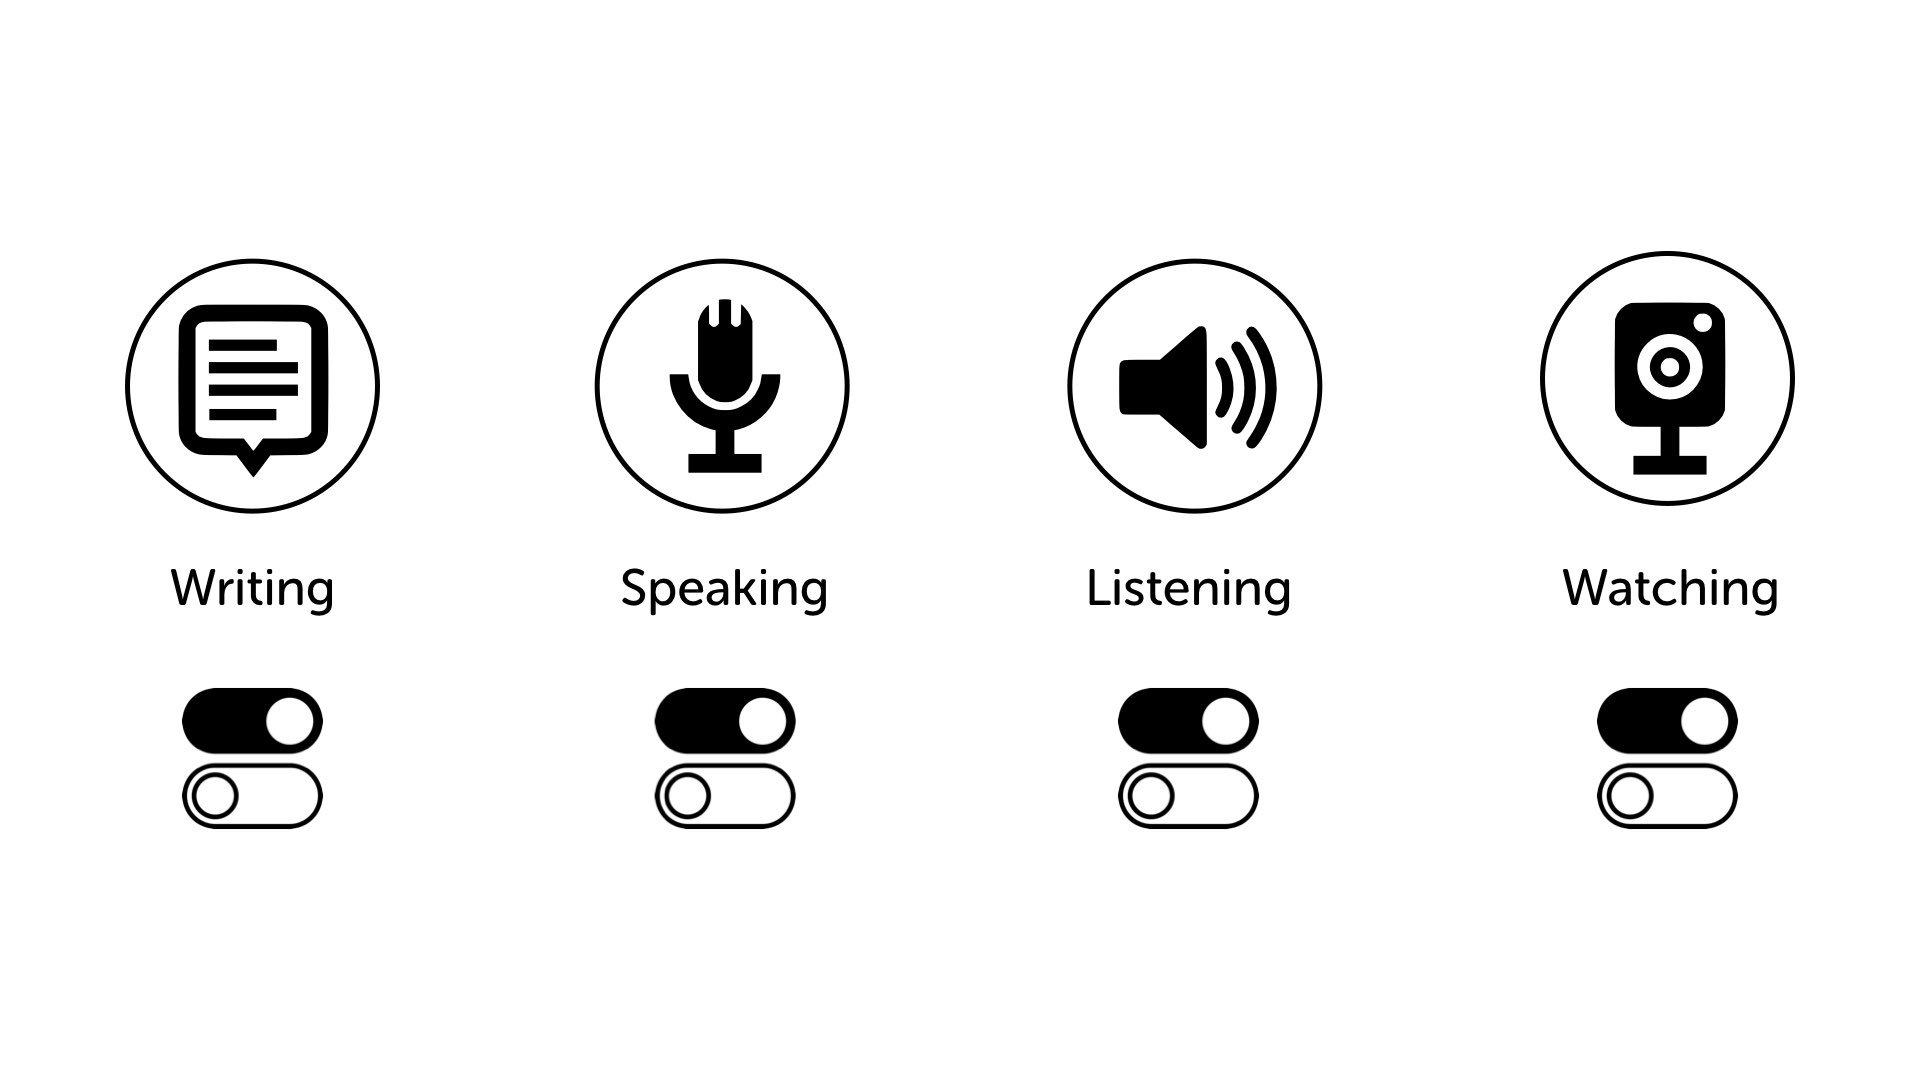
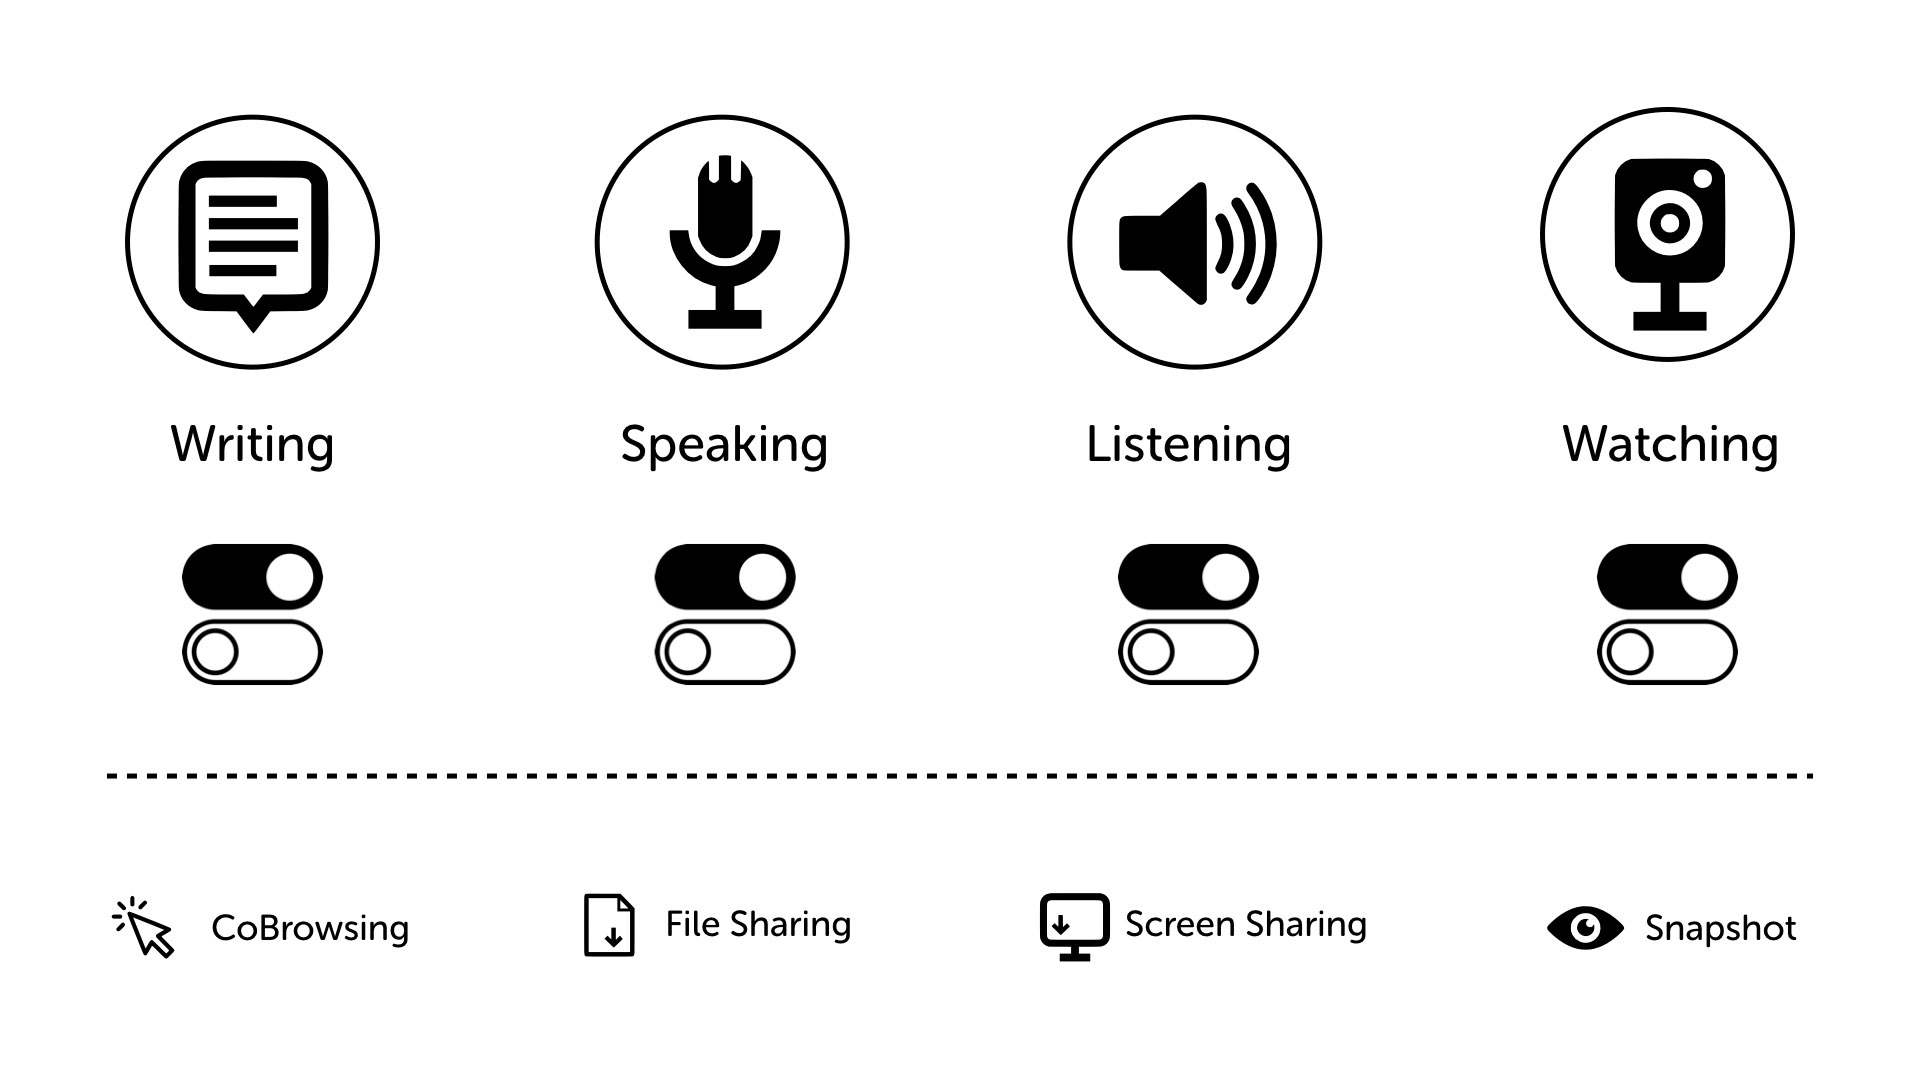
children video rtc

diff --git a/content/post/trends/children-understand-video.md b/content/post/trends/children-understand-video.md
@@ -1,0 +1,39 @@
++++
+categories = ["trends"]
+date = "2019-03-27T00:01:00+02:00"
+description = "Digital Transformation Trends"
+draft = false
+tags = ["marketing","videochat","livechat","businesstrends","humaninteraction"]
+title = "Children are more confortable having video calls than just phone calls"
+image = "/postimages/trends/ivrpowers-post-05.018.jpeg"
+comments = true
++++
+
+![Young people on the phone](/postimages/trends/ivrpowers-post-05.018.jpeg)
+------------
+###### Photo source: Interactive Powers
+
+#	Video Real-Time Communications are not optional for younger generations.
+---
+
+If you have the opportunity to check how children understand Live Communications, you will quickly realise that phone is absolutly not a priority for them. They will never ask you about using a phone number and never want to remember just what it is. **This new generation is born under a full digital world's devices with high speed Internet and they absolutly are not aware about using limited or poor interactions**. For this reason, they jut feel like boring waiting for a specific content by email, a TV show or making a simple phone call when they have the capacity to get rich interactions with video, text, smileys or pictures in real-time.
+
+> Children are not wrong, they are the Future.  
+
+## Evolution not an option.
+
+Companies that doesn't understand yet that [Real-Time Communications (RTC)](http://blog.ivrpowers.com/post/technologies/what-is-rtc/) have to progresively replace all phone calls in the next years for their customer care, sales or support will become quickly old fashioned and irrelevant for these new consumers. The next customer generation will never accept to downgrade their high speed and rich communication expectations.
+
+> It's not a question of fashion, it'a a question of evolution.
+
+## Streamline your business communications
+
+Interactive Powers can help you to turn easily customer experience into a competitive advantage, our [Video RTC](https://www.ivrpowers.com/videortc/) solutions getting all integrated today into your existing Contact Center.
+
+Please contact our [sales](http://www.ivrpowers.com/support-services/) for more information.
+
+---
+[Interactive Powers](http://www.ivrpowers.com/ ) - Streamline your business communications
+
+
+

diff --git a/content/post/customerengagement/videortc-escalating.md b/content/post/customerengagement/videortc-escalating.md
@@ -44,8 +44,6 @@ Escalating can be redifined according to your own procedure to connect with the 
 
 ## In Summary... 
 
-
-
 Throughout the entire escalation process, the chat, which was the initial channel, remains active. Therefore, clients and agents can continue to use it, for example, to send documents, links or even share a live screen, during voice call or videoconference.. Because in any of the given steps, **the functions of [capturing images](http://blog.ivrpowers.com/post/products/video-rtc-snapshot/), [sharing documents](http://blog.ivrpowers.com/post/products/video-rtc-file-sharing/), [sharing screens](http://blog.ivrpowers.com/post/products/video-rtc-screen-sharing/) and [cobrowsing](http://blog.ivrpowers.com/post/products/video-rtc-cobrowsing/) are kept available.**
  
 Each customer can increase gradualy the communications features, depending on the needs of the business process or conversation modality. Thus, with the [integration of all channels](http://blog.ivrpowers.com/post/contactcenter/video-integration/) efficiency is improved and maximum benefit is obtained from advanced RTC solutions.
